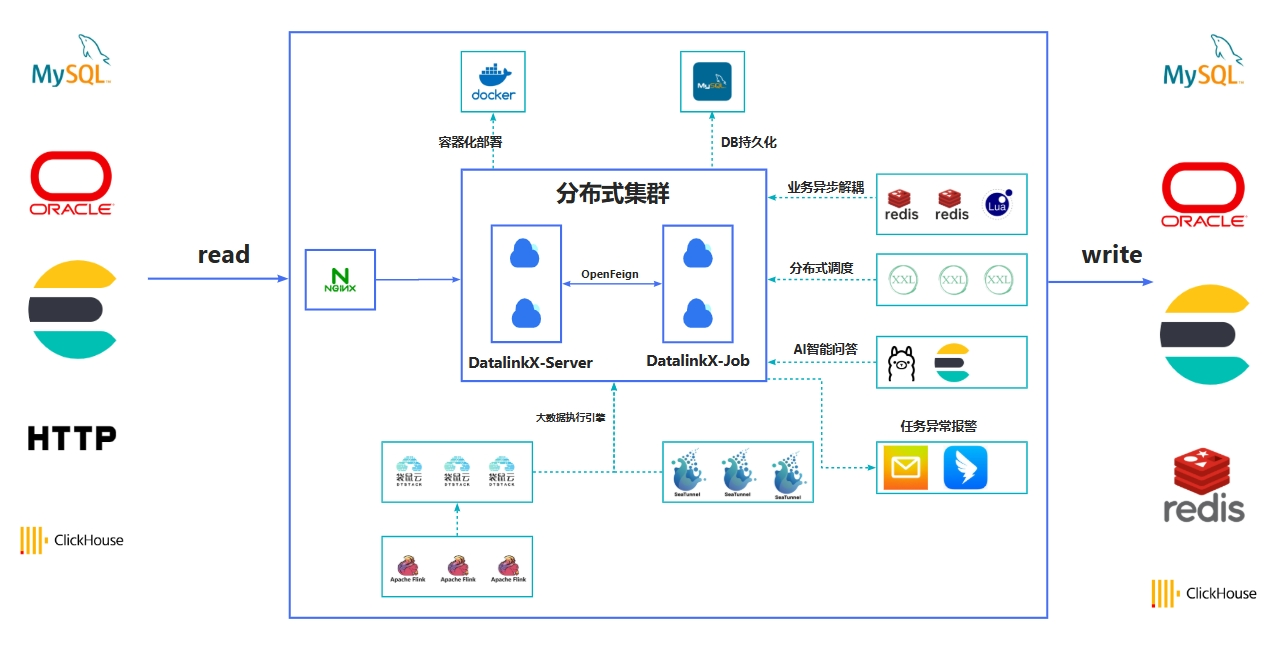
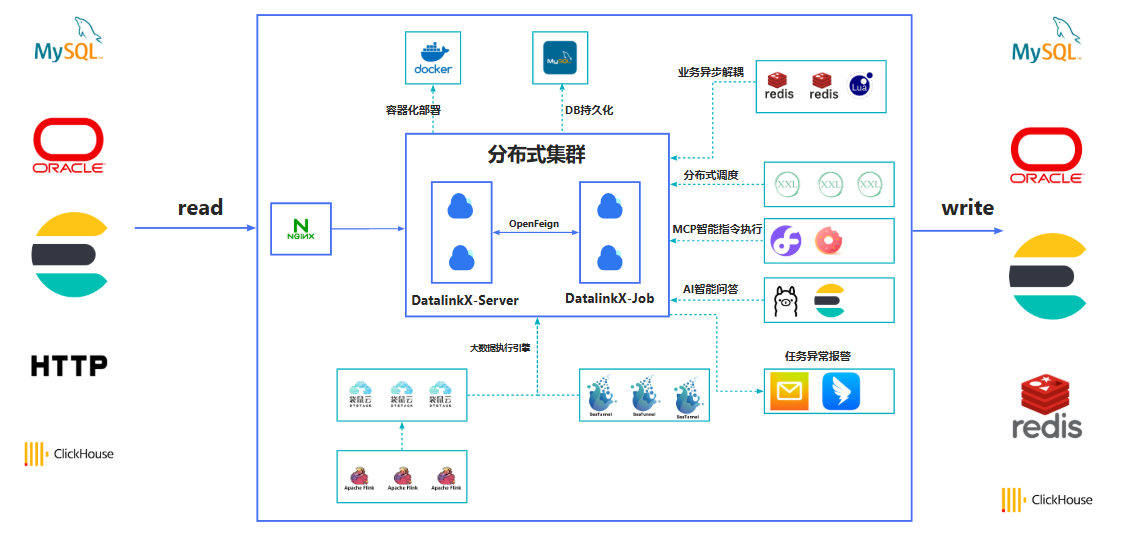
remove ds mcp tool

diff --git a/front-ui/src/App.vue b/front-ui/src/App.vue
@@ -35,6 +35,9 @@
               </a-select>
             </div>
           </template>
+          <template v-slot:system-message-body="{ message }">
+            [System]: {{message.text}}
+          </template>
         </beautiful-chat>
       </div>
     </div>
@@ -115,7 +118,6 @@ export default {
       const answerId = this.getTimestamp()
       var self = this
       eventSource.onmessage = function (event) {
-        console.log(event.data)
         var modelMessage = JSON.parse(event.data)
 
         console.log(answerId)
@@ -141,6 +143,7 @@ export default {
           } else {
             text = modelMessage.result
           }
+          console.log(text)
           const answer = {
             type: 'text',
             author: `user1`,

diff --git a/datalinkx-copilot/datalinkx-copilot-mcp/src/main/java/com/datalinkx/copilot/mcp/config/ChatConfig.java b/datalinkx-copilot/datalinkx-copilot-mcp/src/main/java/com/datalinkx/copilot/mcp/config/ChatConfig.java
@@ -1,6 +1,5 @@
 package com.datalinkx.copilot.mcp.config;
 
-import com.datalinkx.copilot.mcp.tools.DataSourceConfigTool;
 import com.datalinkx.copilot.mcp.tools.DataTransferJobTool;
 import org.noear.solon.ai.chat.ChatModel;
 import org.springframework.beans.factory.annotation.Autowired;
@@ -26,9 +25,6 @@ public class ChatConfig {
     @Autowired
     private DataTransferJobTool dataTransferJobTool;
 
-    @Autowired
-    private DataSourceConfigTool dataSourceConfigTool;
-
     @Bean
     public ChatModel mcpChatModel() {
         return ChatModel.of(baseUrl)
@@ -36,7 +32,6 @@ public class ChatConfig {
                 .provider(provider)
                 .apiKey(apiKey)
                 .defaultToolsAdd(dataTransferJobTool)
-                .defaultToolsAdd(dataSourceConfigTool)
                 .build();
     }
 }
